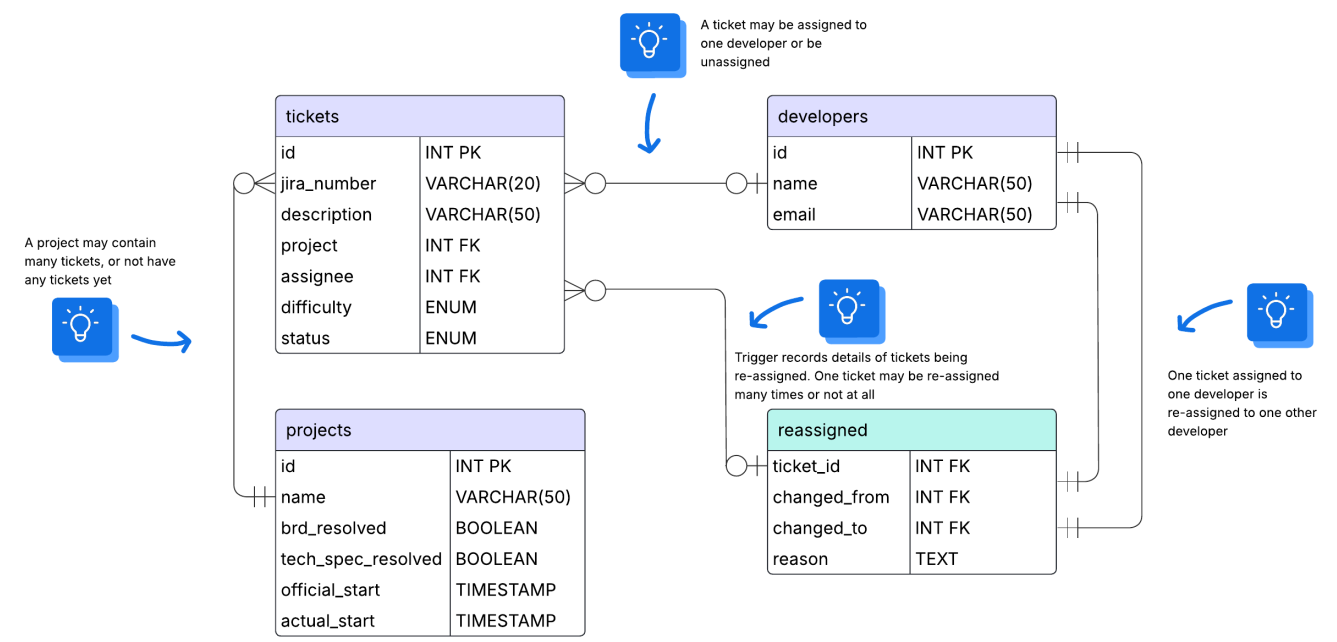
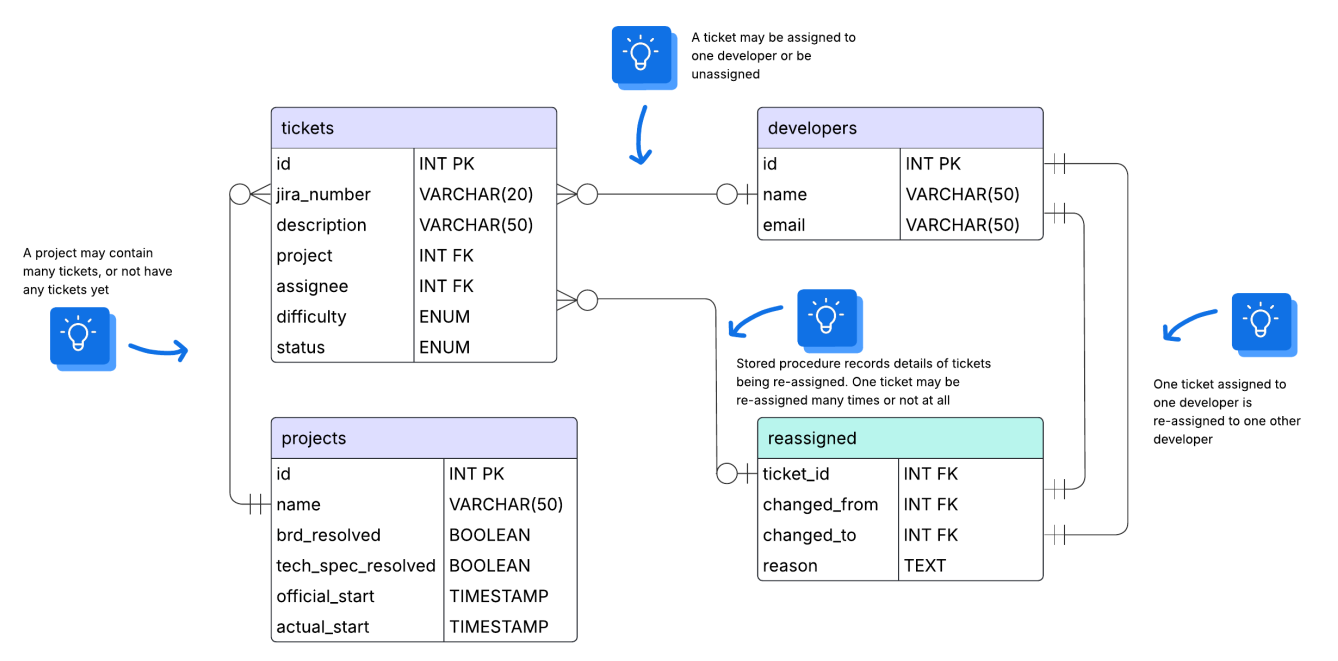
Fixed ERD, added indexes

diff --git a/project/DESIGN.md b/project/DESIGN.md
@@ -4,33 +4,41 @@ By James Lizamore
 
 Video overview: <URL HERE>
 
+---
+
 ## Scope
 
 ### Purpose
-* This database will be used to keep record of developer productivity over multiple projects
+* This database will be used to keep a record of developer productivity over multiple projects.
 
-### In scope:
-* Developers and their contribution to projects
-* Projects, including their start dates
-* Tickets, including what project they are relevant to and to which developer they were assigned
-* Re-assigned tickets, including who they were first assigned to and the reason the ticket was re-assigned
+### In Scope
+* Developers and their contributions to projects.
+* Projects, including their start dates.
+* Tickets, including what project they are associated with and which developer they are assigned to.
+* Re-assigned tickets, including who they were originally assigned to and the reason for re-assignment.
 
-### Out of scope:
-* Remote access to the database, a UI or dashboard and getting data directly from JIRA 
+### Out of Scope
+* Remote access to the database.
+* A user interface or dashboard.
+* Getting data directly from JIRA.
+
+---
 
 ## Functional Requirements
 
-In this section you should answer the following questions:
+* A user should be able to perform CRUD operations on all tables.
+* Users can utilize a stored procedure to simplify the process of re-assigning tickets.
+* The system must track:
+  - How many tickets each developer has worked on per project.
+  - The difficulty level of each ticket.
+  - The progress of each ticket (status: Open, In-progress, Resolved).
+  - The history of ticket reassignments.
 
-* A user should be able to perform CRUD operations on all tables 
-* Users can make use of the stored procedure to make re-assigning tickets easier
-* Tracking how many tickets each developer worked on for each project, how difficult each ticket is and the progress of each ticket
+---
 
 ## Representation
 
 ### Entities
-
-The database includes the following entities:
 
 #### Developers
 
@@ -48,6 +56,7 @@ The `developers` table includes:
   - A `VARCHAR(50)` column that stores the developer’s email address.  
   - This column is required (`NOT NULL`).
 
+---
 
 #### Projects
 
@@ -71,8 +80,10 @@ The `projects` table includes:
   - A `TIMESTAMP` column that represents the official start time of the project.
 
 * **`actual_start`**  
-  - A `TIMESTAMP` column that represents when the project actually began. Developers may actually start on the project before the official start date for productivity's sake
+  - A `TIMESTAMP` column that represents when the project actually began.  
+  - *Note:* Developers may actually start on the project before the official start date to boost productivity.
 
+---
 
 #### Tickets
 
@@ -103,12 +114,15 @@ The `tickets` table includes:
 * **`status`**  
   - An `ENUM ('Open', 'In-progress', 'Resolved')` column that represents the current status of the ticket.
 
+---
+
 #### Reassigned
 
 The `reassigned` table includes:
 
 * **`ticket_id`**  
-  - An unsigned integer representing the ticket that was re-assigned.
+  - An unsigned integer representing the ticket that was re-assigned.  
+  - This column has a foreign key constraint referencing the `id` column in the `tickets` table.
 
 * **`changed_from`**  
   - An unsigned integer that stores the ID of the developer from whom the ticket was re-assigned.  
@@ -121,6 +135,7 @@ The `reassigned` table includes:
 * **`reason`**  
   - A `TEXT` column that captures the reason behind the re-assignment.
 
+---
 
 ### Relationships
 
@@ -128,18 +143,41 @@ The `reassigned` table includes:
 
 As detailed by the diagram:
 
-* One developer can be assigned many tickets or not yet have any tickets assigned to them.
-* A project can have many tickets or not yet contain any tickets.
-* A ticket can only be assigned to one developer and a ticket can only be part of one project.
-* A re-assigned ticket contains who it was first assigned to and who it assigned to now.
+* One developer can be assigned many tickets (or none at all).
+* A project can have many tickets (or none yet).
+* A ticket is assigned to one developer and is associated with one project.
+* A re-assigned ticket records the developer it was originally assigned to and the developer it is assigned to now, along with the reason for the change.
+
+---
 
 ## Optimizations
 
-* Typically, a user would like to see an overview of how tickets, projects and developers relate to one another, hence the creation of the `dev_summary` view.
-* Stored procedure for re-assigning tickets is more convenient than manually updating the ticket table and adding record of changes to the `reassigned` table.
+* **Views:**  
+  - The `dev_summary` view aggregates key metrics (e.g., total tickets, status breakdown, and reassignment counts) to give an overview of developer productivity.
+  
+* **Stored Procedures:**  
+  - The `reassign_ticket` stored procedure encapsulates the logic for updating ticket assignments and logging reassignments, ensuring consistency and simplifying operations.
+  
+* **Indexes:**  
+  - Indexes have been added to the `tickets` table on the `assignee`, `project`, and `status` columns to speed up queries.  
+    - **`idx_tickets_assignee`** helps with queries filtering by developer.  
+    - **`idx_tickets_project`** optimizes lookups by project.  
+    - **`idx_tickets_status`** supports queries filtering by ticket status (though note that low-cardinality columns like `status` may not always benefit significantly from indexing).  
+  - The design anticipates more reads than writes, which makes these indexes beneficial for performance.
+
+---
 
 ## Limitations
 
-* The current schema assumes tickets may only be assigned to one developer at a time. Assigning one ticket to multiple developers may require adjustments in the future
-* Software often has many unforeseen complications which may need more context 
-* In the future I would like to add audit logging and deadlines for tickets and projects
+* The current schema assumes that each ticket is assigned to only one developer at a time. If a ticket needs to be assigned to multiple developers, the schema will need adjustment.
+* The system does not currently support audit logging beyond the basic re-assignment records.
+* There is no support for deadlines or priority levels on tickets or projects.
+* Future enhancements might include:
+  - More detailed audit logging (e.g., tracking changes with timestamps).
+  - Adding deadlines, priorities, or additional context for tickets.
+  - Enhancing the UI/dashboard for easier data visualization and interaction.
+
+---
+
+
+
